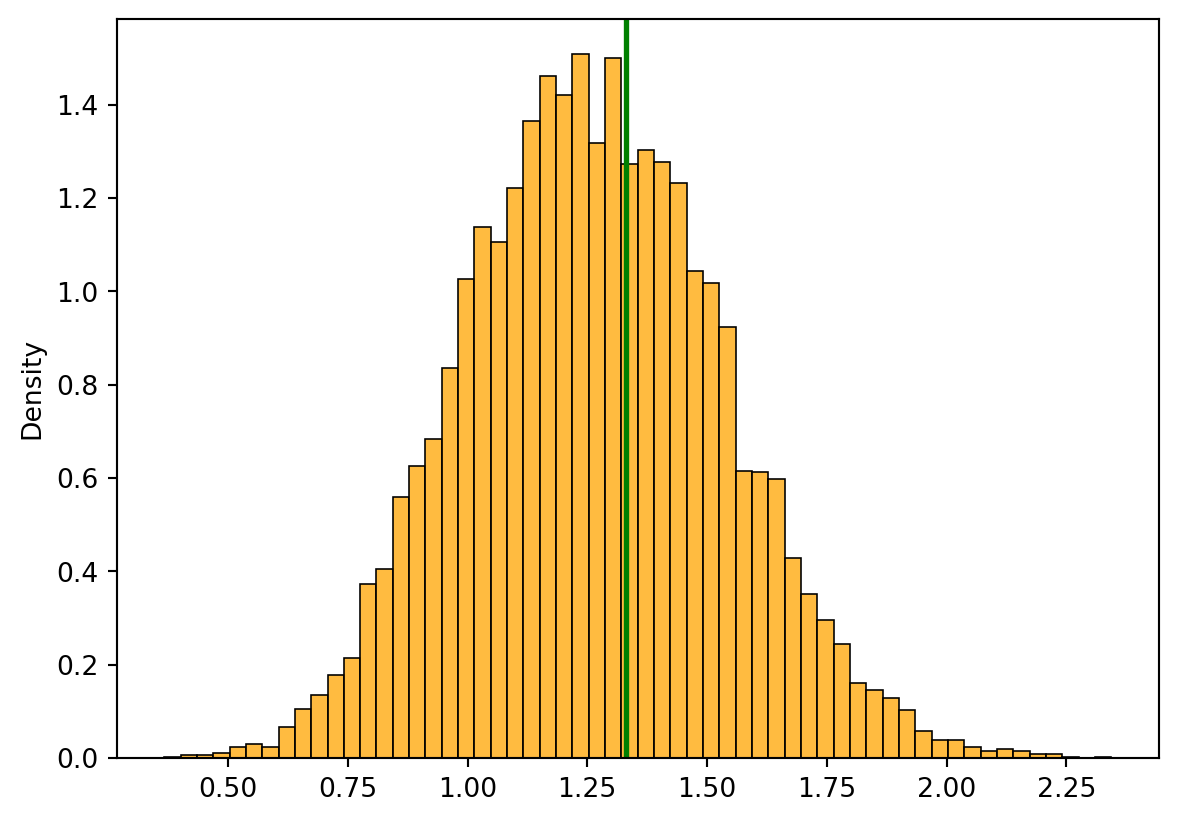
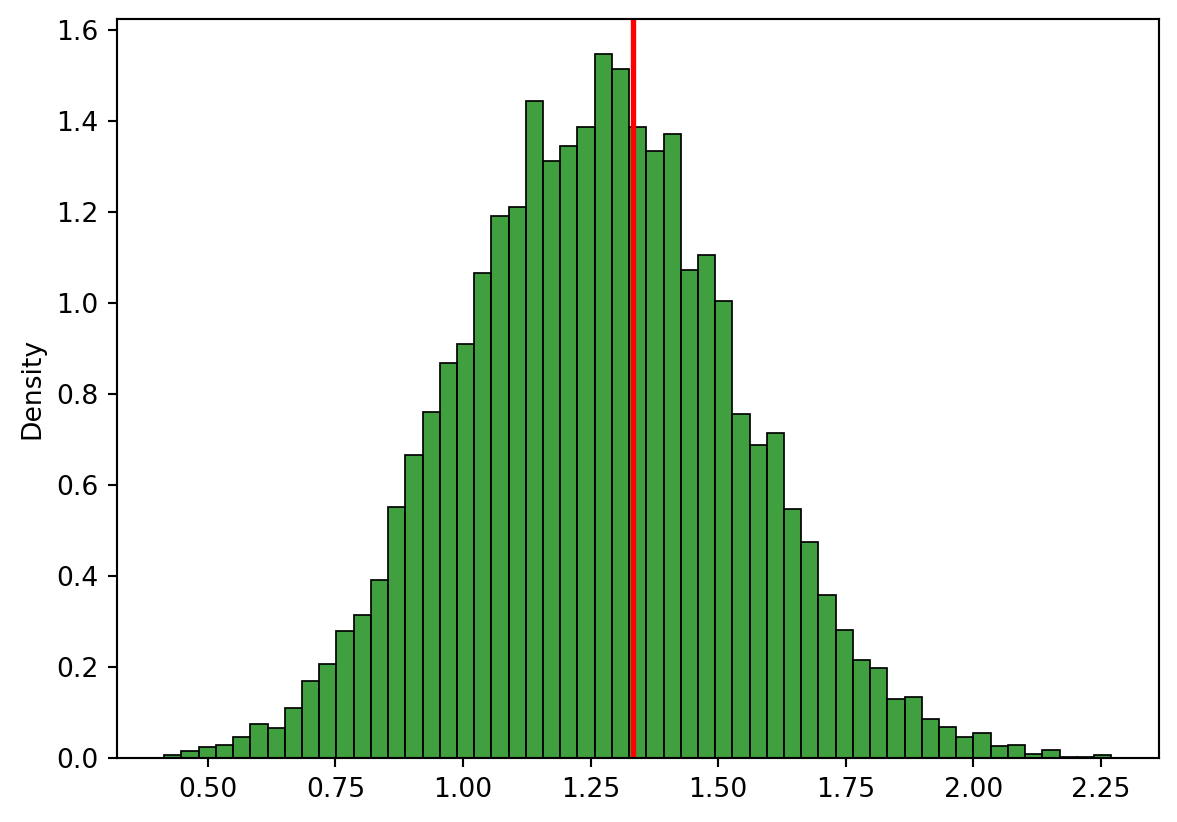
final

diff --git a/docs/blog.html b/docs/blog.html
@@ -202,7 +202,7 @@ window.Quarto = {
 
 <div class="quarto-listing quarto-listing-container-default" id="listing-listing">
 <div class="list quarto-listing-default">
-<div class="quarto-post image-right" data-index="0" data-categories="bigdata" data-listing-date-sort="1722178800000" data-listing-file-modified-sort="1722255197214" data-listing-date-modified-sort="NaN" data-listing-reading-time-sort="1" data-listing-word-count-sort="148">
+<div class="quarto-post image-right" data-index="0" data-categories="bigdata" data-listing-date-sort="1722178800000" data-listing-file-modified-sort="1722301478928" data-listing-date-modified-sort="NaN" data-listing-reading-time-sort="1" data-listing-word-count-sort="150">
 <div class="thumbnail">
 <p><a href="./posts/hw4/hw4.html" class="no-external"></a></p><a href="./posts/hw4/hw4.html" class="no-external">
 <p class="card-img-top"><img src="posts\hw4\hw4_files\figure-html\cell-2-output-1.png"  class="thumbnail-image card-img"/></p>
@@ -228,7 +228,7 @@ bigdata
 </section>
 <section id="분포-그래프에-모분산의-위치에-녹색-막대를-그려주세요." class="level3">
 
-<div id="6de152ee" class="cell" data-execution_count="1">
+<div id="c2f7e870" class="cell" data-execution_count="1">
 <div class="sourceCode cell-code" id="cb1"><pre class="sourceCode python code-with-copy"><code class="sourceCode python"><span id="cb1-1"><span class="co"># s_2 분포</span></span>
 <span id="cb1-2"><span class="im">from</span> scipy.stats <span class="im">import</span> uniform</span>
 <span id="cb1-3"><span class="im">import</span> matplotlib.pyplot <span class="im">as</span> plt</span>
@@ -237,7 +237,7 @@ bigdata
 <span id="cb1-6">x <span class="op">=</span> x.reshape(<span class="op">-</span><span class="dv">1</span>,<span class="dv">20</span>)</span>
 <span id="cb1-7">x.shape</span>
 <span id="cb1-8"></span>
-<span id="cb1-9">s_2 <span class="op">=</span> x.var(axis<span class="op">…</span><span class="dv"></span><span class="op"></span><span class="dv"></span></span><span id="cb1-10"></span><span id="cb1-11"></span><span id="cb1-12"><span class="co"></span></span><span id="cb1-13"><span class="im"></span><span class="im"></span></span><span id="cb1-14"><span class="im"></span><span class="im"></span></span><span id="cb1-15"><span class="op"></span><span class="st"></span><span class="op"></span><span class="st"></span></span><span id="cb1-16"><span class="op"></span><span class="st"></span><span class="op"></span><span class="dv"></span></span><span id="cb1-17"></span><span id="cb1-18"></span></code></pre></div><div class="cell-output cell-output-display"><div><figure class="figure"><p></p></figure></div></div><div class="cell-output cell-output-display"><pre><code></code></pre></div></div><div id="df5155c7" class="cell" data-execution_count="2"><div class="sourceCode cell-code" id="cb3"><pre class="sourceCode python code-with-copy"><code class="sourceCode python"><span id="cb3-1"><span class="co"></span></span><span id="cb3-2"><span class="im"></span><span class="im"></span></span><span id="cb3-3"><span class="im"></span><span class="im"></span></span><span id="cb3-4"></span><span id="cb3-5"><span class="op"></span><span class="op"></span><span class="dv"></span><span class="op"></span><span class="dv"></span><span class="op"></span><span class="dv"></span><span class="op"></span><span class="dv"></span></span><span id="cb3-6"><span class="op"></span><span class="op"></span><span class="dv"></span><span class="dv"></span></span><span id="cb3-7"></span><span id="cb3-8"></span><span id="cb3-9"><span class="op"></span><span class="op"></span><span class="dv"></span><span class="op"></span><span class="dv"></span></span><span id="cb3-10"></span><span id="cb3-11"></span><span id="cb3-12"><span class="co"></span></span><span id="cb3-13"><span class="im"></span><span class="im"></span></span><span id="cb3-14"><span class="im"></span><span class="im"></span></span><span id="cb3-15"><span class="op"></span><span class="st"></span><span class="op"></span><span class="st"></span></span><span id="cb3-16"><span class="op"></span><span class="st"></span><span class="op"></span><span class="dv"></span></span><span id="cb3-17"></span></code></pre></div><div class="cell-output cell-output-display"><div><figure class="figure"><p></p></figure></div></div></div></section></a>
+<span id="cb1-9">s_2 <span class="op">=</span> x.var(axis<span class="op">…</span><span class="dv"></span><span class="op"></span><span class="dv"></span></span><span id="cb1-10"></span><span id="cb1-11"></span><span id="cb1-12"><span class="co"></span></span><span id="cb1-13"><span class="im"></span><span class="im"></span></span><span id="cb1-14"><span class="im"></span><span class="im"></span></span><span id="cb1-15"><span class="op"></span><span class="st"></span><span class="op"></span><span class="st"></span></span><span id="cb1-16"><span class="op"></span><span class="st"></span><span class="op"></span><span class="dv"></span></span><span id="cb1-17"><span class="dv"></span><span class="fl"></span></span><span id="cb1-18"></span><span id="cb1-19"></span></code></pre></div><div class="cell-output cell-output-display"><div><figure class="figure"><p></p></figure></div></div><div class="cell-output cell-output-display"><pre><code></code></pre></div></div><div id="4033150f" class="cell" data-execution_count="2"><div class="sourceCode cell-code" id="cb3"><pre class="sourceCode python code-with-copy"><code class="sourceCode python"><span id="cb3-1"><span class="co"></span></span><span id="cb3-2"><span class="im"></span><span class="im"></span></span><span id="cb3-3"><span class="im"></span><span class="im"></span></span><span id="cb3-4"></span><span id="cb3-5"><span class="op"></span><span class="op"></span><span class="dv"></span><span class="op"></span><span class="dv"></span><span class="op"></span><span class="dv"></span><span class="op"></span><span class="dv"></span></span><span id="cb3-6"><span class="op"></span><span class="op"></span><span class="dv"></span><span class="dv"></span></span><span id="cb3-7"></span><span id="cb3-8"></span><span id="cb3-9"><span class="op"></span><span class="op"></span><span class="dv"></span><span class="op"></span><span class="dv"></span></span><span id="cb3-10"></span><span id="cb3-11"></span><span id="cb3-12"><span class="co"></span></span><span id="cb3-13"><span class="im"></span><span class="im"></span></span><span id="cb3-14"><span class="im"></span><span class="im"></span></span><span id="cb3-15"><span class="op"></span><span class="st"></span><span class="op"></span><span class="st"></span></span><span id="cb3-16"><span class="op"></span><span class="st"></span><span class="op"></span><span class="dv"></span></span><span id="cb3-17"></span></code></pre></div><div class="cell-output cell-output-display"><div><figure class="figure"><p></p></figure></div></div></div></section></a>
 </div>
 </div>
 <div class="metadata">

diff --git a/docs/posts/hw4/hw4.html b/docs/posts/hw4/hw4.html
@@ -209,7 +209,7 @@ pre > code.sourceCode > span > a:first-child::before { text-decoration: underlin
 </section>
 <section id="분포-그래프에-모분산의-위치에-녹색-막대를-그려주세요." class="level3">
 <h3 class="anchored" data-anchor-id="분포-그래프에-모분산의-위치에-녹색-막대를-그려주세요.">2. 분포 그래프에 모분산의 위치에 녹색 막대를 그려주세요.</h3>
-<div id="6de152ee" class="cell" data-execution_count="1">
+<div id="c2f7e870" class="cell" data-execution_count="1">
 <div class="sourceCode cell-code" id="cb1"><pre class="sourceCode python code-with-copy"><code class="sourceCode python"><span id="cb1-1"><a href="#cb1-1" aria-hidden="true" tabindex="-1"></a><span class="co"># s_2 분포</span></span>
 <span id="cb1-2"><a href="#cb1-2" aria-hidden="true" tabindex="-1"></a><span class="im">from</span> scipy.stats <span class="im">import</span> uniform</span>
 <span id="cb1-3"><a href="#cb1-3" aria-hidden="true" tabindex="-1"></a><span class="im">import</span> matplotlib.pyplot <span class="im">as</span> plt</span>
@@ -224,14 +224,15 @@ pre > code.sourceCode > span > a:first-child::before { text-decoration: underlin
 <span id="cb1-12"><a href="#cb1-12" aria-hidden="true" tabindex="-1"></a><span class="co"># 히스토그램 그리기</span></span>
 <span id="cb1-13"><a href="#cb1-13" aria-hidden="true" tabindex="-1"></a><span class="im">import</span> seaborn <span class="im">as</span> sns</span>
 <span id="cb1-14"><a href="#cb1-14" aria-hidden="true" tabindex="-1"></a><span class="im">from</span> scipy.stats <span class="im">import</span> norm</span>
-<span id="cb1-15"><a href="#cb1-15" aria-hidden="true" tabindex="-1"></a>sns.histplot(s_2, stat<span class="op">=</span><span class="st">"density"</span>, color <span class="op">=</span> <span class="st">"orange"</span>)</span>
-<span id="cb1-16"><a href="#cb1-16" aria-hidden="true" tabindex="-1"></a>plt.axvline(x.var(), color<span class="op">=</span><span class="st">"green"</span>, linewidth <span class="op">=</span> <span class="dv">2</span>)</span>
-<span id="cb1-17"><a href="#cb1-17" aria-hidden="true" tabindex="-1"></a>plt.show()</span>
-<span id="cb1-18"><a href="#cb1-18" aria-hidden="true" tabindex="-1"></a>plt.clf()</span></code><button title="Copy to Clipboard" class="code-copy-button"><i class="bi"></i></button></pre></div>
+<span id="cb1-15"><a href="#cb1-15" aria-hidden="true" tabindex="-1"></a>sns.histplot(s_2, stat<span class="op">=</span><span class="st">"density"</span>, color <span class="op">=</span> <span class="st">"green"</span>)</span>
+<span id="cb1-16"><a href="#cb1-16" aria-hidden="true" tabindex="-1"></a>plt.axvline(x.var(), color <span class="op">=</span><span class="st">"red"</span>, linewidth <span class="op">=</span> <span class="dv">2</span>)</span>
+<span id="cb1-17"><a href="#cb1-17" aria-hidden="true" tabindex="-1"></a>plt.xlim([<span class="dv">0</span>, <span class="fl">2.5</span>])</span>
+<span id="cb1-18"><a href="#cb1-18" aria-hidden="true" tabindex="-1"></a>plt.show()</span>
+<span id="cb1-19"><a href="#cb1-19" aria-hidden="true" tabindex="-1"></a>plt.clf()</span></code><button title="Copy to Clipboard" class="code-copy-button"><i class="bi"></i></button></pre></div>
 <div class="cell-output cell-output-display">
 <div>
 <figure class="figure">
-<p><img src="hw4_files/figure-html/cell-2-output-1.png" width="589" height="411" class="figure-img"></p>
+<p><img src="hw4_files/figure-html/cell-2-output-1.png" width="599" height="411" class="figure-img"></p>
 </figure>
 </div>
 </div>
@@ -239,7 +240,7 @@ pre > code.sourceCode > span > a:first-child::before { text-decoration: underlin
 <pre><code>&lt;Figure size 672x480 with 0 Axes&gt;</code></pre>
 </div>
 </div>
-<div id="df5155c7" class="cell" data-execution_count="2">
+<div id="4033150f" class="cell" data-execution_count="2">
 <div class="sourceCode cell-code" id="cb3"><pre class="sourceCode python code-with-copy"><code class="sourceCode python"><span id="cb3-1"><a href="#cb3-1" aria-hidden="true" tabindex="-1"></a><span class="co"># k_2 분포</span></span>
 <span id="cb3-2"><a href="#cb3-2" aria-hidden="true" tabindex="-1"></a><span class="im">from</span> scipy.stats <span class="im">import</span> uniform</span>
 <span id="cb3-3"><a href="#cb3-3" aria-hidden="true" tabindex="-1"></a><span class="im">import</span> matplotlib.pyplot <span class="im">as</span> plt</span>
@@ -254,8 +255,8 @@ pre > code.sourceCode > span > a:first-child::before { text-decoration: underlin
 <span id="cb3-12"><a href="#cb3-12" aria-hidden="true" tabindex="-1"></a><span class="co"># 히스토그램 그리기</span></span>
 <span id="cb3-13"><a href="#cb3-13" aria-hidden="true" tabindex="-1"></a><span class="im">import</span> seaborn <span class="im">as</span> sns</span>
 <span id="cb3-14"><a href="#cb3-14" aria-hidden="true" tabindex="-1"></a><span class="im">from</span> scipy.stats <span class="im">import</span> norm</span>
-<span id="cb3-15"><a href="#cb3-15" aria-hidden="true" tabindex="-1"></a>sns.histplot(k_2, stat<span class="op">=</span><span class="st">"density"</span>, color <span class="op">=</span> <span class="st">"orange"</span>)</span>
-<span id="cb3-16"><a href="#cb3-16" aria-hidden="true" tabindex="-1"></a>plt.axvline(x.var(), color<span class="op">=</span><span class="st">"green"</span>,  linewidth <span class="op">=</span> <span class="dv">2</span>)</span>
+<span id="cb3-15"><a href="#cb3-15" aria-hidden="true" tabindex="-1"></a>sns.histplot(k_2, stat<span class="op">=</span><span class="st">"density"</span>, color <span class="op">=</span> <span class="st">"green"</span>)</span>
+<span id="cb3-16"><a href="#cb3-16" aria-hidden="true" tabindex="-1"></a>plt.axvline(x.var(), color<span class="op">=</span><span class="st">"red"</span>,  linewidth <span class="op">=</span> <span class="dv">2</span>)</span>
 <span id="cb3-17"><a href="#cb3-17" aria-hidden="true" tabindex="-1"></a>plt.show()</span></code><button title="Copy to Clipboard" class="code-copy-button"><i class="bi"></i></button></pre></div>
 <div class="cell-output cell-output-display">
 <div>
